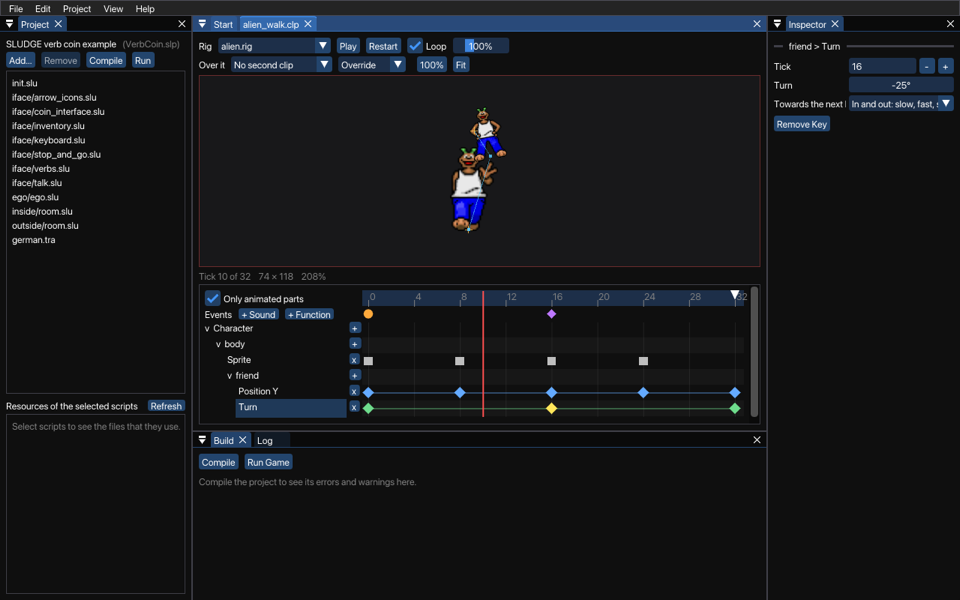
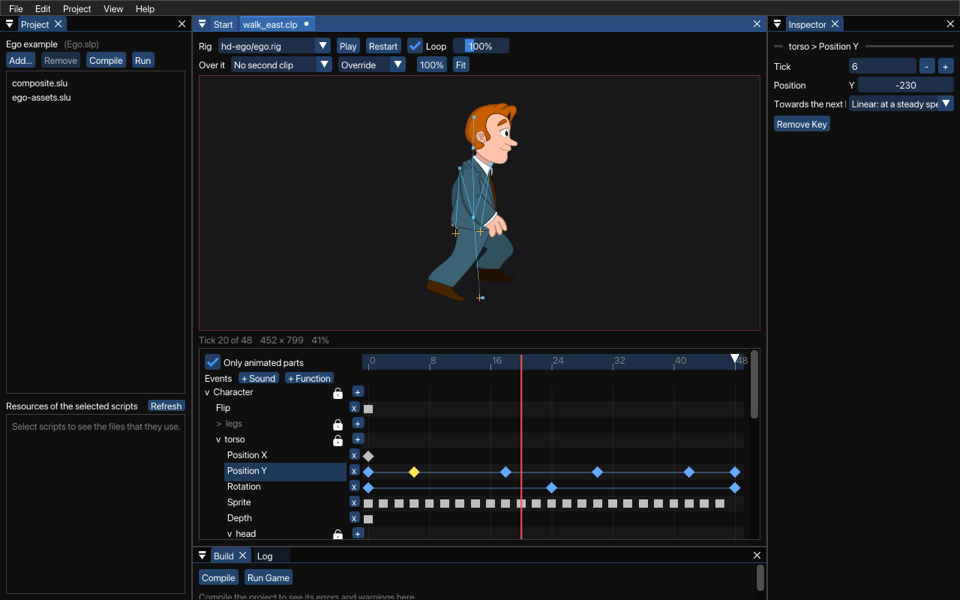
Document the editors' new scales, handles and locks
The pages of the Character Creator and the Animation Editor describe
Position, Rotation and Scale X and Y, the scale handles on the sprite's
box, the lock that scales X and Y together or apart, Center and Lock
sprite position, and locking parts. Their pictures show the man in the
suit. clipKey, setPartProperty and the built-in constants have
PART_SCALE_X and PART_SCALE_Y.

diff --git a/doc/SLUDGEDevKitHelp/About_the_SLUDGE_Character_Creator.html b/doc/SLUDGEDevKitHelp/About_the_SLUDGE_Character_Creator.html
@@ -11,7 +11,7 @@
 <HR>
 
 <P>
-Use the Character Creator to build a <a href="Composite_Characters.html">Composite Character</a>: a character made of parts, such as a body, a head and arms, each with a sprite of its own. What you make is a <b>rig</b>: the parts, what each part is attached to, and how the character stands when no animation moves it, its <b>rest pose</b>. The <a href="About_the_SLUDGE_Animation_Editor.html">Animation Editor</a> then animates the parts. This is how it looks with a rig of two aliens of the verb coin example, the small one standing on the big one's shoulder:
+Use the Character Creator to build a <a href="Composite_Characters.html">Composite Character</a>: a character made of parts, such as a body, a head and arms, each with a sprite of its own. What you make is a <b>rig</b>: the parts, what each part is attached to, and how the character stands when no animation moves it, its <b>rest pose</b>. The <a href="About_the_SLUDGE_Animation_Editor.html">Animation Editor</a> then animates the parts. This is how it looks with the rig of a man in a suit, one arm turned and selected, and his legs locked:
 </P>
 
 <P>
@@ -19,7 +19,7 @@ Use the Character Creator to build a <a href="Composite_Characters.html">Composi
 </P>
 
 <P>
-The parts are on the left, as a tree: each part is under the part it is attached to. The top of the tree, Character, is the character itself. The middle shows the character in its rest pose, and the Inspector on the right shows the part that you select. Click a part in the tree, or click its sprite in the picture, to select it.
+The parts are on the left, as a tree: each part is under the part it is attached to. The top of the tree, Character, is the character itself. The middle shows the character in its rest pose, and the Inspector on the right shows the part that you select. Click a part in the tree, or click its sprite in the picture, to select it. The lock at the end of each row locks a part, so that you can't change it by accident (see Locking parts below).
 </P>
 
 <H3>Opening and creating rigs</H3>
@@ -45,11 +45,11 @@ Remove takes the selected part away, with every part attached to it. Delete does
 <H3>Attaching parts</H3>
 
 <P>
-Drag a part in the tree onto another part to attach it there, or choose the part in the Inspector's Attached to. The part stays where it is on the screen: it then moves, turns, scales and flips with its new parent.
+Drag a part in the tree onto another part to attach it there, or choose the part in the Inspector's Attached to. The part stays where it is on the screen: it then moves, rotates, scales and flips with its new parent.
 </P>
 
 <P>
-Move Up and Move Down change the order of the parts that hang from the same part. Parts of the same depth are drawn in that order: the first one first, behind the others.
+The arrows &uarr; and &darr; (Move Up and Move Down) change the order of the parts that hang from the same part. Parts of the same depth are drawn in that order: the first one first, behind the others.
 </P>
 
 <H3>Choosing a part's sprite</H3>
@@ -69,17 +69,25 @@ The names of the sprite banks are kept from the folder of your project, as the c
 <H3>Placing parts</H3>
 
 <P>
-Drag a part in the picture to move it. Where you drop it is where it is attached: its <b>origin</b>, the point where the part hangs from its parent. X and Y in the Inspector are the same place in numbers. They are measured from the origin of the parent, in the parent's pixels: +X is to the right, and +Y is down.
+Drag a part in the picture to move it. Where you drop it is where it is attached: its <b>origin</b>, the point where the part hangs from its parent. Position X and Y, under Transform in the Inspector, are the same place in numbers. They are measured from the origin of the parent, in the parent's pixels: +X is to the right, and +Y is down.
 </P>
 
 <P>
 The lines between the parts show which part hangs from which: from each part's origin to its parent's.
 </P>
 
-<H3>Turning, scaling, flipping and hiding parts</H3>
+<H3>Rotating, scaling, flipping and hiding parts</H3>
 
 <P>
-The selected part has a ring around its origin. Drag the round knob on the ring to turn the part, and the square knob to scale it. The parts attached to it turn and scale with it. In the Inspector, Turn is in degrees, clockwise, and Scale in percent.
+The selected part has a ring around its origin. Drag the round knob on the ring to rotate the part. The parts attached to it rotate with it. In the Inspector, Rotation is in degrees, clockwise.
+</P>
+
+<P>
+To scale the part, drag one of the small yellow squares on the corners of its sprite's box. A part's X and Y scale together, so it keeps its shape. Click the lock after Scale in the Inspector to let them scale apart: squares then appear in the middle of each side too, and a square on a side scales only that axis, to make a part wider or taller. A corner square then scales X and Y freely. Click the lock again to scale them together again: Y then takes the scale of X.
+</P>
+
+<P>
+Scale X and Y in the Inspector are in percent, along the part's own axes, so they turn with the part. The parts attached to it scale with it. When a part's X and Y scale apart, a rotated part attached to it is stretched along those axes too, and may be skewed.
 </P>
 
 <P>
@@ -87,7 +95,7 @@ Flip mirrors the part, and the parts attached to it. When Visible is off, the pa
 </P>
 
 <P>
-In the picture, places snap to whole pixels, turns to whole degrees and scales to whole percents. Type other values in the Inspector.
+In the picture, positions snap to whole pixels, rotations to whole degrees and scales to whole percents. Type other values in the Inspector.
 </P>
 
 <H3>Depth</H3>
@@ -99,11 +107,21 @@ Depth sets which parts are drawn in front of the others: a part with a higher de
 <H3>The pivot</H3>
 
 <P>
-A part turns and scales about its <b>pivot</b>, which is also its origin. Normally that is the hotspot of its sprite, which you set in the <a href="About_the_SLUDGE_Sprite_Bank_Editor.html">Sprite Bank Editor</a>. But the hotspot of a sprite doesn't always suit the part: an arm whose hotspot is in its middle should turn at its shoulder. Rather than changing the sprite bank, which other parts or characters may use too, you give the part a pivot of its own.
+A part rotates and scales about its <b>pivot</b>, which is also its origin. Normally that is the hotspot of its sprite, which you set in the <a href="About_the_SLUDGE_Sprite_Bank_Editor.html">Sprite Bank Editor</a>. But the hotspot of a sprite doesn't always suit the part: an arm whose hotspot is in its middle should rotate at its shoulder. Rather than changing the sprite bank, which other parts or characters may use too, you give the part a pivot of its own.
 </P>
 
 <P>
-Drag the red circle at the selected part's origin to move its pivot, or type it in the Inspector, in the sprite's pixels from its hotspot. With Keep in place on, the sprite and the parts attached to it stay where they are on the screen: only the point that the part turns about moves.
+Drag the red circle at the selected part's origin to move its pivot, or type it in the Inspector, in the sprite's pixels from its hotspot. Center puts the pivot in the middle of the sprite. With Lock sprite position on, the sprite and the parts attached to it stay where they are on the screen: only the point that the part rotates about moves.
+</P>
+
+<H3>Locking parts</H3>
+
+<P>
+Click the lock at the end of a part's row in the tree to lock the part. A locked part can't be selected, moved, rotated or scaled: its name is dimmed, and a click on it in the picture selects the part under it instead. That is useful when parts lie on top of each other, such as a hand over the body. Click the lock again to unlock it. The Character has a lock too, for the character itself. Each lock is for its own part only: the parts attached to a locked part can still be changed.
+</P>
+
+<P>
+Locks are saved with the rig, but they only matter in the Character Creator: they don't change the rig in a game.
 </P>
 
 <H3>Using the rig in a game</H3>

diff --git a/doc/SLUDGEDevKitHelp/About_the_SLUDGE_Animation_Editor.html b/doc/SLUDGEDevKitHelp/About_the_SLUDGE_Animation_Editor.html
@@ -11,7 +11,7 @@
 <HR>
 
 <P>
-Use the Animation Editor to animate the parts of a <a href="Composite_Characters.html">Composite Character</a>. What you make is an animation <b>clip</b>: for each part that moves, <b>tracks</b> of its place, turn, scale, sprite, visibility, depth or flip, with <b>keys</b> that set them at points in time, and <b>events</b> that play sounds or call functions. A character can play several clips at once, such as a walk and a blink (see <a href="Animation_Clips.html">Animation Clips</a>). This is how it looks with the clip of a walk of the aliens of the <a href="About_the_SLUDGE_Character_Creator.html">Character Creator</a>:
+Use the Animation Editor to animate the parts of a <a href="Composite_Characters.html">Composite Character</a>. What you make is an animation <b>clip</b>: for each part that moves, <b>tracks</b> of its position, rotation, scale, sprite, visibility, depth or flip, with <b>keys</b> that set them at points in time, and <b>events</b> that play sounds or call functions. A character can play several clips at once, such as a walk and a blink (see <a href="Animation_Clips.html">Animation Clips</a>). This is how it looks with the walk of the man in a suit of the <a href="About_the_SLUDGE_Character_Creator.html">Character Creator</a>, at tick 20, with a key of his torso selected and his legs locked:
 </P>
 
 <P>
@@ -39,7 +39,7 @@ The tracks are in the order of the rig's parts, each part under the part it is a
 </P>
 
 <P>
-The + by a part adds a track to it: Position (a track for X and one for Y), Turn, Scale, Sprite, Visible, Depth or Flip. The x by a track removes it, with its keys.
+The + by a part adds a track to it: Position (a track for X and one for Y), Rotation, Scale (a track for X and one for Y), Sprite, Visible, Depth or Flip. The x by a track removes it, with its keys. Clips made by scripts may have a Scale (both) track, which scales X and Y together (PART_SCALE of <a href="clipKey.html">clipKey</a>); the editor keeps it, and you can edit its keys.
 </P>
 
 <P>
@@ -49,7 +49,11 @@ Tracks of parts that the rig doesn't have are at the end, in orange. They do not
 <H3>Keying parts in the picture</H3>
 
 <P>
-Put the playhead where you want a key, and move a part in the picture: drag it to move it, or drag the round or square knob on its ring to turn or scale it. That makes a key at the playhead, or changes the key that is there. If the part has no track for it yet, the editor makes one. A move keys the place only, a turn the turn, a scale the scale. The red frame of the picture, and the line under it, say what you are keying.
+Put the playhead where you want a key, and move a part in the picture: drag it to move it, drag the round knob on its ring to rotate it, or drag a yellow square on its sprite's box to scale it. That makes a key at the playhead, or changes the key that is there. If the part has no track for it yet, the editor makes one. A move keys the position only, a rotation the rotation, and a scale the scale. The red frame of the picture, and the line under it, say what you are keying.
+</P>
+
+<P>
+As in the <a href="About_the_SLUDGE_Character_Creator.html">Character Creator</a>, the corner squares scale X and Y together, unless they scale apart: the lock by the selected part's name in the toolbar says which, and it starts as the part does in the rig. When they scale apart, the squares in the middle of the sides key only the X or the Y scale.
 </P>
 
 <P>
@@ -69,7 +73,7 @@ Click the name of a track to make it the current one, and press K to key it at t
 <H3>Values and easing</H3>
 
 <P>
-The Inspector shows the selected key: its tick, its value and, for place, turn and scale, its easing. The easing says how the value goes from this key to the next one: Step holds it until the next key, Linear goes at a steady speed, and In and out starts and ends slowly. The colours of the keys show their easing, and so do the lines between them. Sprite, visibility, depth and flip keys always step.
+The Inspector shows the selected key: its tick, its value and, for position, rotation and scale, its easing. The easing says how the value goes from this key to the next one: Step holds it until the next key, Linear goes at a steady speed, and In and out starts and ends slowly. The colours of the keys show their easing, and so do the lines between them. Sprite, visibility, depth and flip keys always step.
 </P>
 
 <H3>Sprite keys</H3>
@@ -107,13 +111,19 @@ Click or drag in the ruler to move the playhead, or use the Left and Right arrow
 <H3>A second clip on top</H3>
 
 <P>
-In a game, a character can play a clip on a layer over its costume (see <a href="playClip.html">playClip</a>). To see how two clips go together, choose another clip of your project in Over it. Override lets the second clip set what it keys, over the first; Additive adds its places and turns to those of the first, and multiplies its scales.
+In a game, a character can play a clip on a layer over its costume (see <a href="playClip.html">playClip</a>). To see how two clips go together, choose another clip of your project in Over it. Override lets the second clip set what it keys, over the first; Additive adds its positions and rotations to those of the first, and multiplies its scales.
+</P>
+
+<H3>Locking parts</H3>
+
+<P>
+Click the lock by a part's name in the tracks to lock the part. A locked part can't be selected or keyed in the picture, and its keys, dimmed, can't be selected, moved or removed on the timeline: a click on it in the picture selects the part under it instead. Click the lock again to unlock it. Locks are saved with the clip, apart from the rig's, and they don't change the clip in a game.
 </P>
 
 <H3>Renaming parts</H3>
 
 <P>
-When you rename a part in the <a href="About_the_SLUDGE_Character_Creator.html">Character Creator</a>, its tracks in the clips made for the rig are renamed too. The editor opens those clips, so that you can save them with the rig. Undo in the rig undoes the rename in the clips as well.
+When you rename a part in the <a href="About_the_SLUDGE_Character_Creator.html">Character Creator</a>, its tracks in the clips made for the rig are renamed too, and so are their locks. The editor opens those clips, so that you can save them with the rig. Undo in the rig undoes the rename in the clips as well.
 </P>
 
 <H3>Using the clip in a game</H3>

diff --git a/doc/SLUDGEDevKitHelp/clipKey.html b/doc/SLUDGEDevKitHelp/clipKey.html
@@ -29,6 +29,7 @@ Properties you can change:
 <LI><b>PART_X</b>, <b>PART_Y</b>: The part's local X and Y coordinates.</LI>
 <LI><b>PART_ROTATION</b>: Rotation in degrees, measured clockwise.</LI>
 <LI><b>PART_SCALE</b>: Size in percentage, the same in width and height. 100 = full size, 50 = half, 200 is double, etc...</LI>
+<LI><b>PART_SCALE_X</b>, <b>PART_SCALE_Y</b>: Size in percentage of the width or the height only, along the part's own axes. In a clip that has both, PART_SCALE_X and PART_SCALE_Y win over PART_SCALE.</LI>
 <LI><b>PART_DEPTH</b>: The order of drawing relative to other parts. For example, to draw an arm behind its body. (see <a href="setPartDepth.html">setPartDepth</a>)</LI>
 <LI><b>PART_VISIBLE</b>: Set visibility to TRUE or FALSE. FALSE hides the part and the parts attached to it.</LI>
 <LI><b>PART_FLIP</b>: TRUE mirrors the part, and the parts attached to it.</LI>

diff --git a/doc/SLUDGEDevKitHelp/setPartProperty.html b/doc/SLUDGEDevKitHelp/setPartProperty.html
@@ -23,7 +23,7 @@ Sets a <i>property</i> of a <i>part</i> of <i>character</i> directly from your s
 </P>
 
 <P>
-The properties and their units are those of <a href="clipKey.html">clipKey</a>: PART_X, PART_Y, PART_ROTATION, PART_SCALE (in percent), PART_DEPTH, PART_VISIBLE and PART_FLIP. Sprites can't be set this way; play a clip with <a href="clipSprite.html">clipSprite</a> on a layer instead (see <a href="playClip.html">playClip</a>).
+The properties and their units are those of <a href="clipKey.html">clipKey</a>: PART_X, PART_Y, PART_ROTATION, PART_SCALE, PART_SCALE_X and PART_SCALE_Y (in percent), PART_DEPTH, PART_VISIBLE and PART_FLIP. Sprites can't be set this way; play a clip with <a href="clipSprite.html">clipSprite</a> on a layer instead (see <a href="playClip.html">playClip</a>).
 </P>
 
 <P>

diff --git a/doc/SLUDGEDevKitHelp/Built-in_Constants.html b/doc/SLUDGEDevKitHelp/Built-in_Constants.html
@@ -305,7 +305,7 @@ For <a href="clipKey.html">clipKey</a>: the properties of a part, and how they m
 </P>
 
 <P>
-<B>PART_X</B> = 0, <B>PART_Y</B> = 1, <B>PART_ROTATION</B> = 2, <B>PART_SCALE</B> = 3, <B>PART_VISIBLE</B> = 5, <B>PART_DEPTH</B> = 6, <B>PART_FLIP</B> = 7
+<B>PART_X</B> = 0, <B>PART_Y</B> = 1, <B>PART_ROTATION</B> = 2, <B>PART_SCALE</B> = 3, <B>PART_VISIBLE</B> = 5, <B>PART_DEPTH</B> = 6, <B>PART_FLIP</B> = 7, <B>PART_SCALE_X</B> = 8, <B>PART_SCALE_Y</B> = 9
 </P>
 
 <P>
